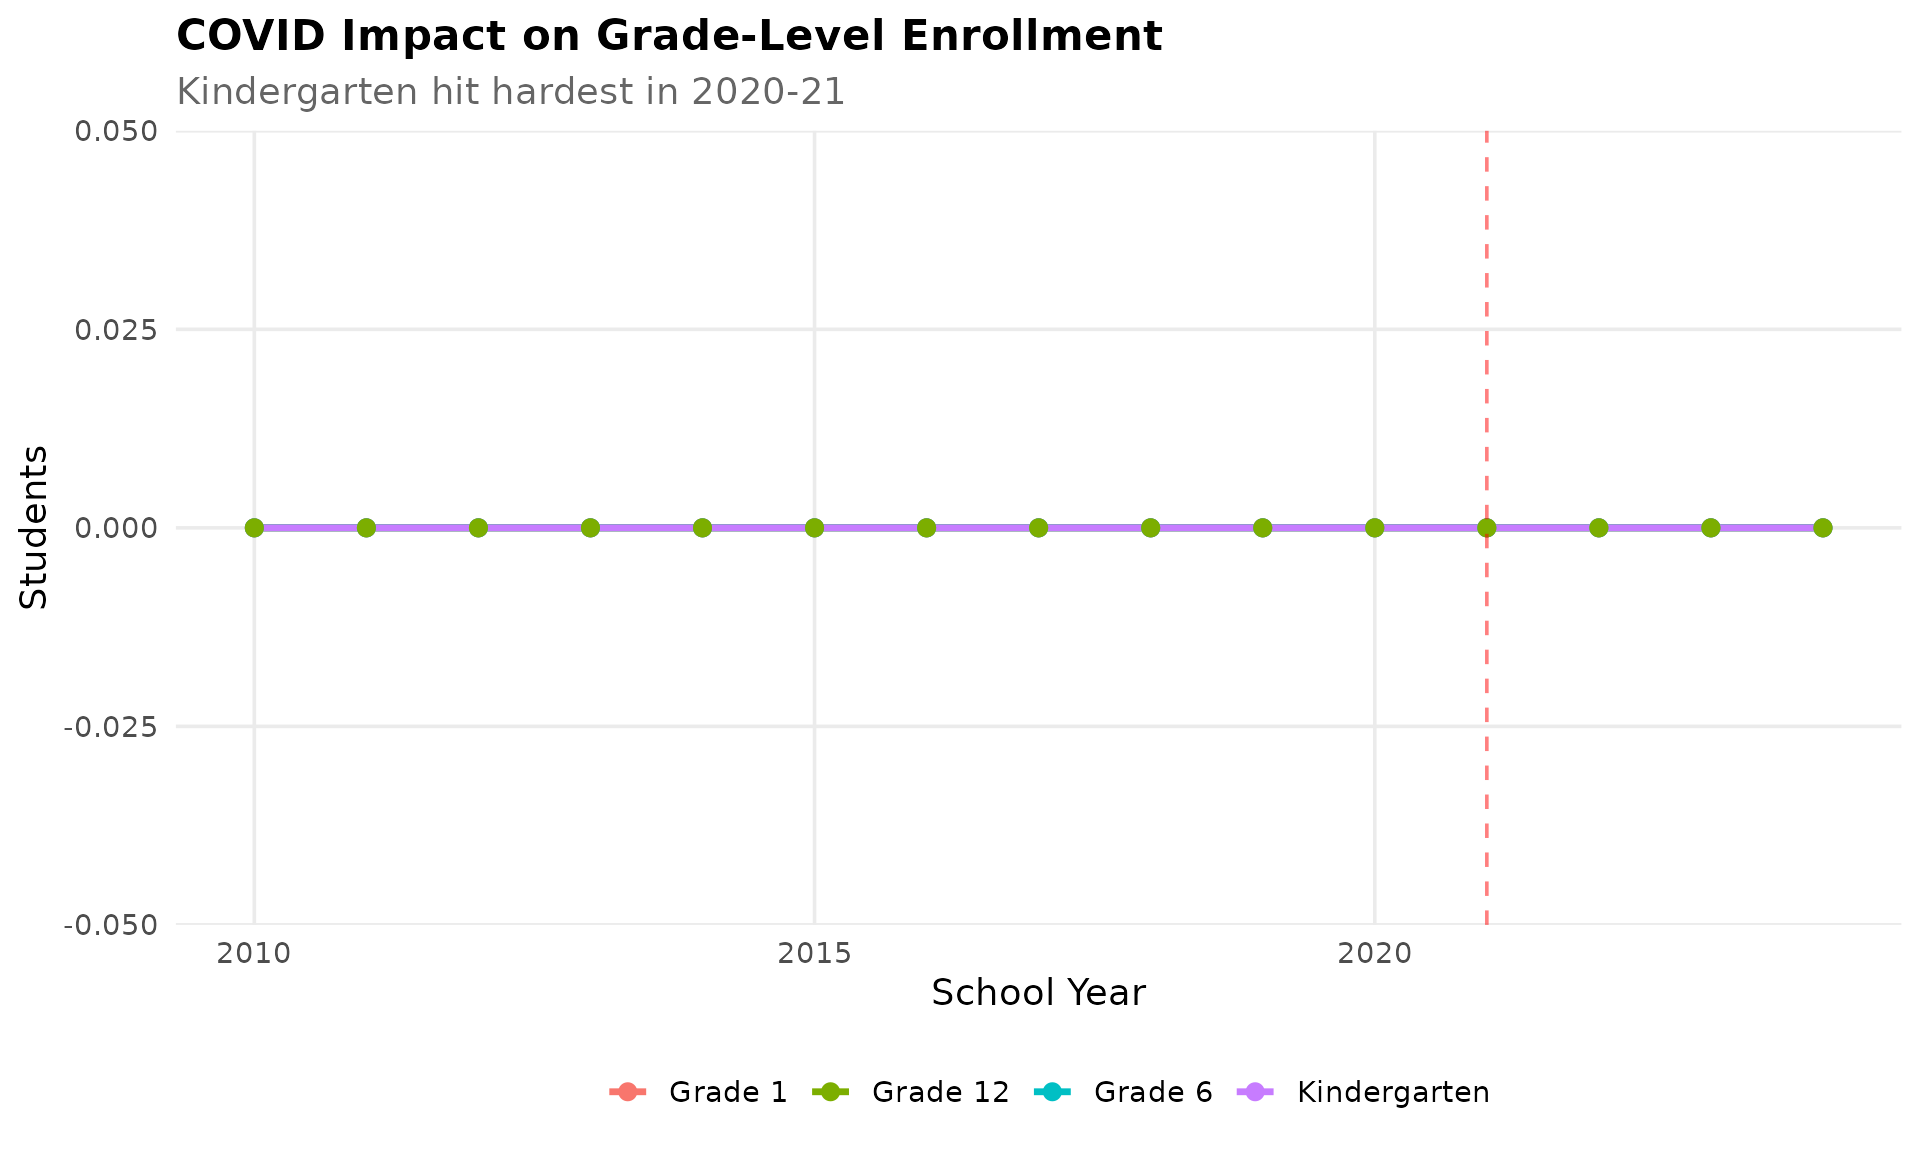
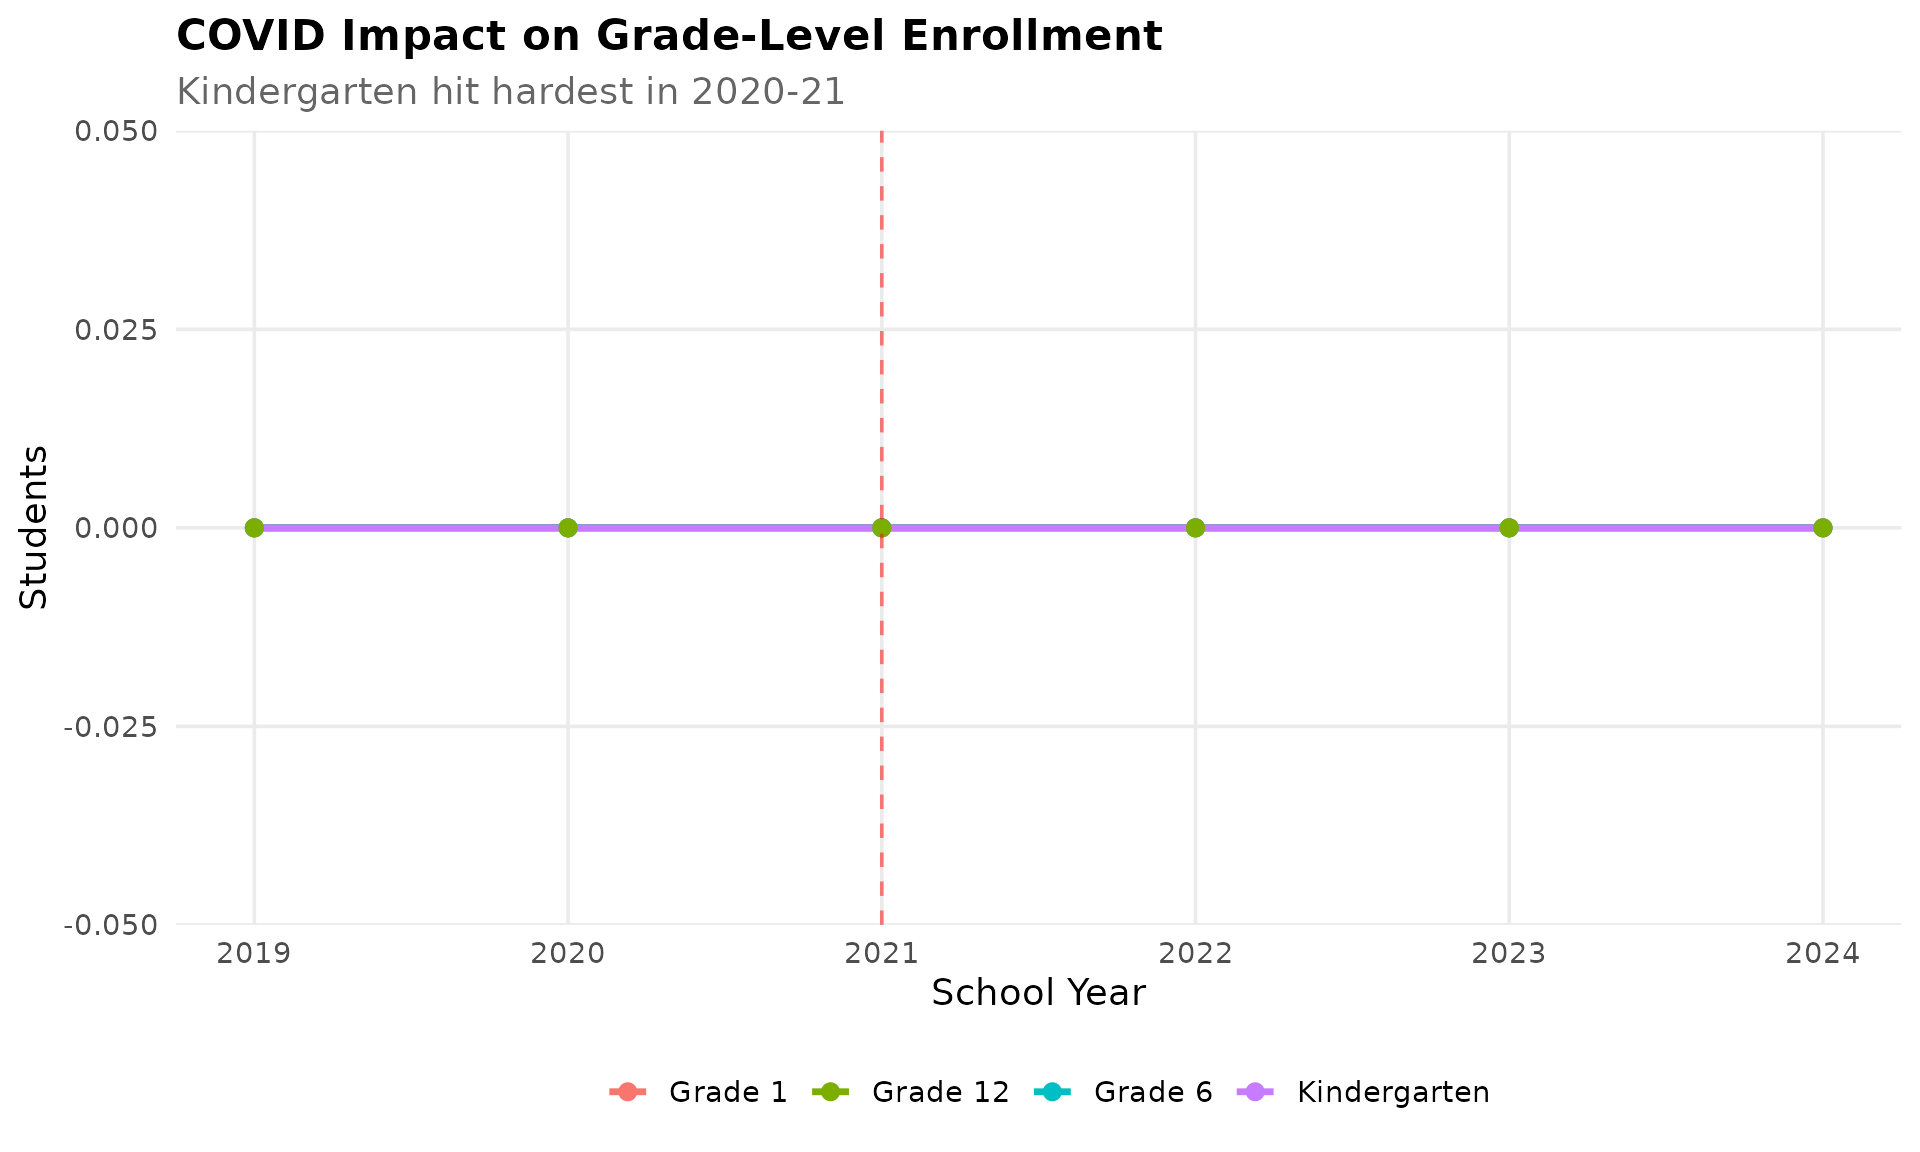
Deploying to gh-pages from @ almartin82/moschooldata@073f259e5278df0eb080e8a5e551b96db0079906 🚀

diff --git a/articles/enrollment-trends.html b/articles/enrollment-trends.html
@@ -84,8 +84,8 @@
 <span>            <span class="st">"hispanic"</span> <span class="op">=</span> <span class="st">"#F39C12"</span>, <span class="st">"asian"</span> <span class="op">=</span> <span class="st">"#9B59B6"</span>, <span class="st">"kc"</span> <span class="op">=</span> <span class="st">"#1ABC9C"</span>,</span>
 <span>            <span class="st">"stl"</span> <span class="op">=</span> <span class="st">"#E74C3C"</span>, <span class="st">"springfield"</span> <span class="op">=</span> <span class="st">"#3498DB"</span>, <span class="st">"columbia"</span> <span class="op">=</span> <span class="st">"#9B59B6"</span><span class="op">)</span></span></code></pre></div>
 <div class="sourceCode" id="cb3"><pre class="downlit sourceCode r">
-<code class="sourceCode R"><span><span class="co"># Fetch data</span></span>
-<span><span class="va">enr</span> <span class="op">&lt;-</span> <span class="fu"><a href="../reference/fetch_enr_multi.html">fetch_enr_multi</a></span><span class="op">(</span><span class="fl">2010</span><span class="op">:</span><span class="fl">2024</span><span class="op">)</span></span>
+<code class="sourceCode R"><span><span class="co"># Fetch data (recent years with verified data availability)</span></span>
+<span><span class="va">enr</span> <span class="op">&lt;-</span> <span class="fu"><a href="../reference/fetch_enr_multi.html">fetch_enr_multi</a></span><span class="op">(</span><span class="fl">2019</span><span class="op">:</span><span class="fl">2024</span><span class="op">)</span></span>
 <span><span class="va">enr_current</span> <span class="op">&lt;-</span> <span class="fu"><a href="../reference/fetch_enr.html">fetch_enr</a></span><span class="op">(</span><span class="fl">2024</span><span class="op">)</span></span></code></pre></div>
 <div class="section level2">
 <h2 id="st--louis-city-a-district-in-crisis">1. St. Louis City: A district in crisis<a class="anchor" aria-label="anchor" href="#st--louis-city-a-district-in-crisis"></a>

diff --git a/articles/enrollment-trends.md b/articles/enrollment-trends.md
@@ -24,8 +24,8 @@ colors <- c("total" = "#2C3E50", "white" = "#3498DB", "black" = "#E74C3C",
 ```
 
 ``` r
-# Fetch data
-enr <- fetch_enr_multi(2010:2024)
+# Fetch data (recent years with verified data availability)
+enr <- fetch_enr_multi(2019:2024)
 enr_current <- fetch_enr(2024)
 ```
 
